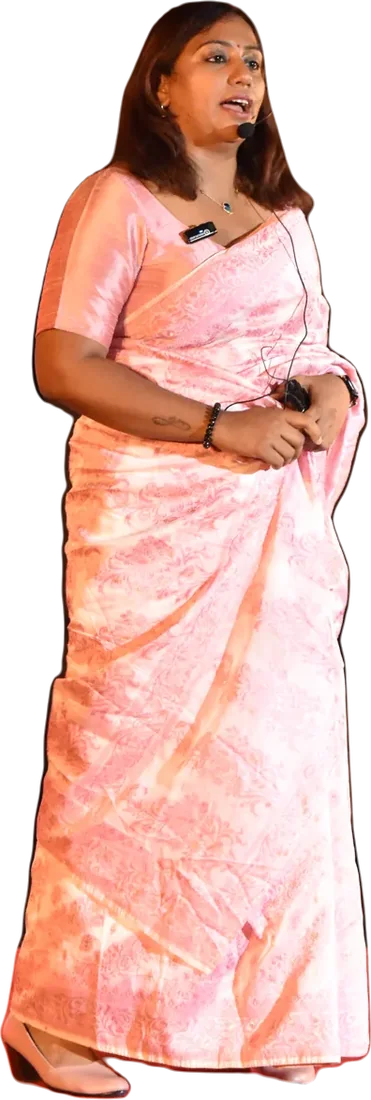
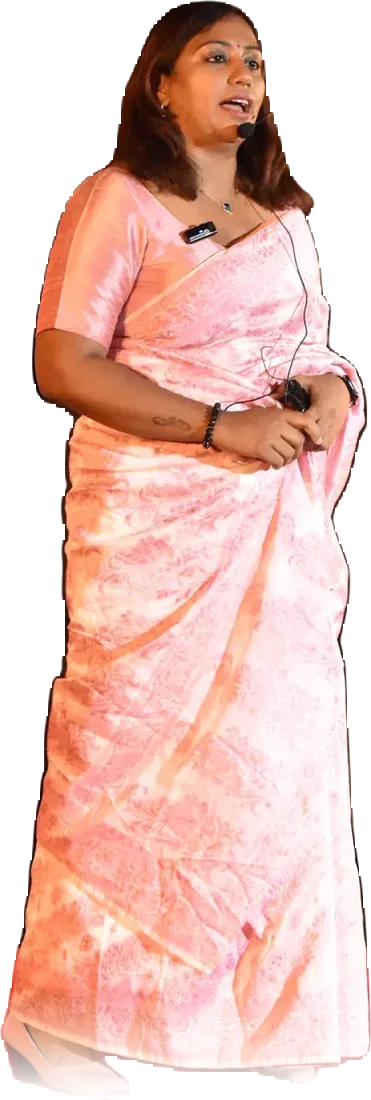
Show the carpet speaker only while their card is centred; clean the cut-outs
The figure appeared the moment the hero was clicked — standing in front of the
ARCHIVE OF VOICES title with no card anywhere near the middle. The reel now
reports whether the nearest frame is actually ON the centre line, not just
which one is nearest, and the figure waits for that.

The window was swept against the real frame geometry rather than guessed. At
6.5 outline-units every speaker qualified but held it for only 3% of the reel
each, leaving the carpet empty 70% of the time and the figure blinking. At 20
it is near-continuous but fires while a card is still a quarter off-centre. 13
— the middle third of the drawn screen — puts someone on the carpet 61% of the
reel, with a clear beat between speakers. All ten still reach it.

Figures are 40% of their previous size (30% of the stage height down to 12%).

Cut-outs cleaned. Analysed all ten: keshav2 carried 3 separate blobs with 2.5%
of its area being background the matte had kept (the music stand). Only the
largest connected component is the person, so that is gone — 4.6% of his
pixels — and the others shed under 1% of matte noise.

Every one of the ten photographs is cropped at the shin or ankle: there is no
foot anywhere in any source frame. Rather than fabricate anatomy for real,
identifiable people, the alpha is dissolved over the last tenth of each figure
so it grounds into the stage floor instead of ending on a guillotine line,
which against a dark stage with a contact shadow is what being lit from above
[…]

diff --git a/src/assets/components/Reel/ReelOnScreen.tsx b/src/assets/components/Reel/ReelOnScreen.tsx
@@ -53,15 +53,29 @@ const TOP_MIN = Math.min(...TOP.map(([, y]) => y));
 const BOTTOM_MAX = Math.max(...BOTTOM.map(([, y]) => y));
 const SPAN = RIGHT_X - LEFT_X;
 
+/**
+ * How close to the outline's midpoint a frame must sit to count as "on the
+ * centre line", in the outline's own 0-100 units — roughly the middle third of
+ * the drawn screen.
+ *
+ * Swept against the real frame geometry: at 6.5 every speaker qualified but
+ * only for 3% of the reel each, leaving the carpet empty 70% of the time and
+ * the figure blinking. At 20 it is near-continuous but fires while a card is
+ * still a quarter of the way off, which defeats the point. 13 puts a speaker
+ * on the carpet 61% of the reel with a clear beat between each one.
+ */
+const CENTRE_WINDOW = 13;
+
 interface Props {
     scrollRootRef: RefObject<HTMLElement | null>;
     /**
-     * Fires when a DIFFERENT frame becomes the one nearest the screen's centre.
-     * The per-frame position is already derived every tick for the curve-based
-     * scaling, so this costs nothing extra; it only calls out on a change, so
-     * React re-renders a handful of times across the whole sequence.
+     * Fires when the frame nearest the screen's centre changes, OR when it
+     * crosses in or out of the centre window. The per-frame position is
+     * already derived every tick for the curve-based scaling, so this costs
+     * nothing extra, and reporting only on a change keeps React re-renders to
+     * a handful across the whole sequence.
      */
-    onCentre?: (index: number) => void;
+    onCentre?: (index: number, centred: boolean) => void;
 }
 
 /**
@@ -194,15 +208,18 @@ export default function ReelOnScreen({ scrollRootRef, onCentre }: Props) {
                 }
             }
 
-            if (nearest !== -1 && nearest !== lastCentre) {
+            const centred = nearest !== -1 && nearestDist <= CENTRE_WINDOW;
+            if (nearest !== -1 && (nearest !== lastCentre || centred !== lastCentred)) {
                 lastCentre = nearest;
-                onCentreRef.current?.(nearest);
+                lastCentred = centred;
+                onCentreRef.current?.(nearest, centred);
             }
         };
 
         let frameId = 0;
         let lastP = -1;
         let lastCentre = -1;
+        let lastCentred = false;
 
         const tick = () => {
             const root = scrollRootRef.current;

diff --git a/src/assets/App.tsx b/src/assets/App.tsx
@@ -109,8 +109,12 @@ function HomePage() {
     // the page. Clicking the hero flips it to "ARCHIVE OF VOICES" and opens the
     // long scroll track that plays the reel.
     const [archiveOpen, setArchiveOpen] = useState(false);
-    // which speaker the reel currently has on the screen's centre line
+    // which speaker the reel currently has on the screen's centre line, and
+    // whether it is actually ON it — the figure used to appear the moment the
+    // hero was clicked, standing in front of the ARCHIVE OF VOICES title with
+    // no card anywhere near the middle
     const [centreSpeaker, setCentreSpeaker] = useState(0);
+    const [speakerCentred, setSpeakerCentred] = useState(false);
 
     // the hero only has something to pin against when it owns a full screen
     const heroPinned = !(isPhone && !archiveOpen);
@@ -214,13 +218,16 @@ function HomePage() {
                                 {archiveOpen && (
                                     <ReelOnScreen
                                         scrollRootRef={scrollRootRef}
-                                        onCentre={setCentreSpeaker}
+                                        onCentre={(i, centred) => {
+                                            setCentreSpeaker(i);
+                                            setSpeakerCentred(centred);
+                                        }}
                                     />
                                 )}
 
                                 <CarpetFigure
                                     index={centreSpeaker}
-                                    visible={archiveOpen}
+                                    visible={archiveOpen && speakerCentred}
                                 />
                             </div>
 

diff --git a/src/assets/components/Stage/CarpetFigure.tsx b/src/assets/components/Stage/CarpetFigure.tsx
@@ -22,7 +22,7 @@ import { filmFramesData } from "../Reel/filmData";
 const CARPET = { x: 49.93, y: 65.69 };
 
 /** figure height as a share of the stage height — a person at that distance */
-const FIGURE_H = 30;
+const FIGURE_H = 12;
 
 /**
  * Every cut-out renders at the same height, which is right for the nine
